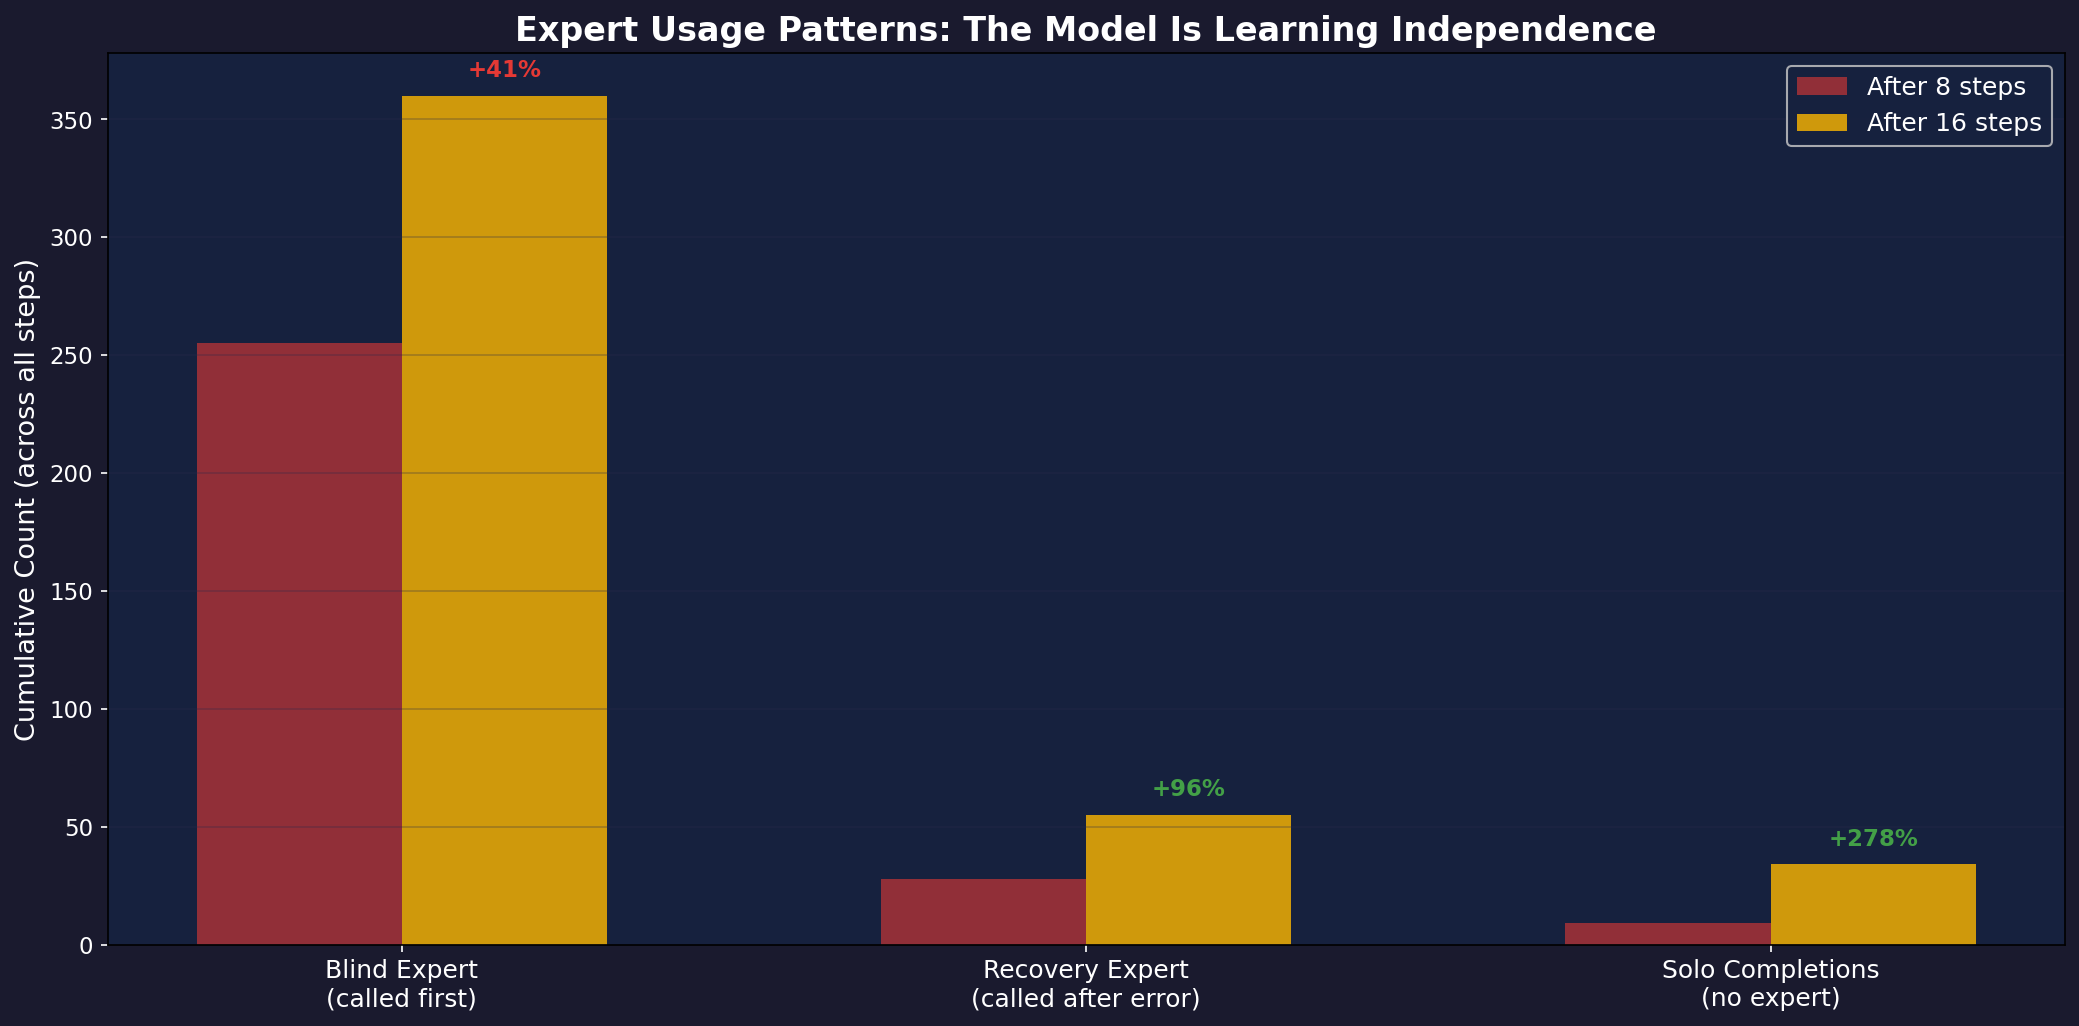
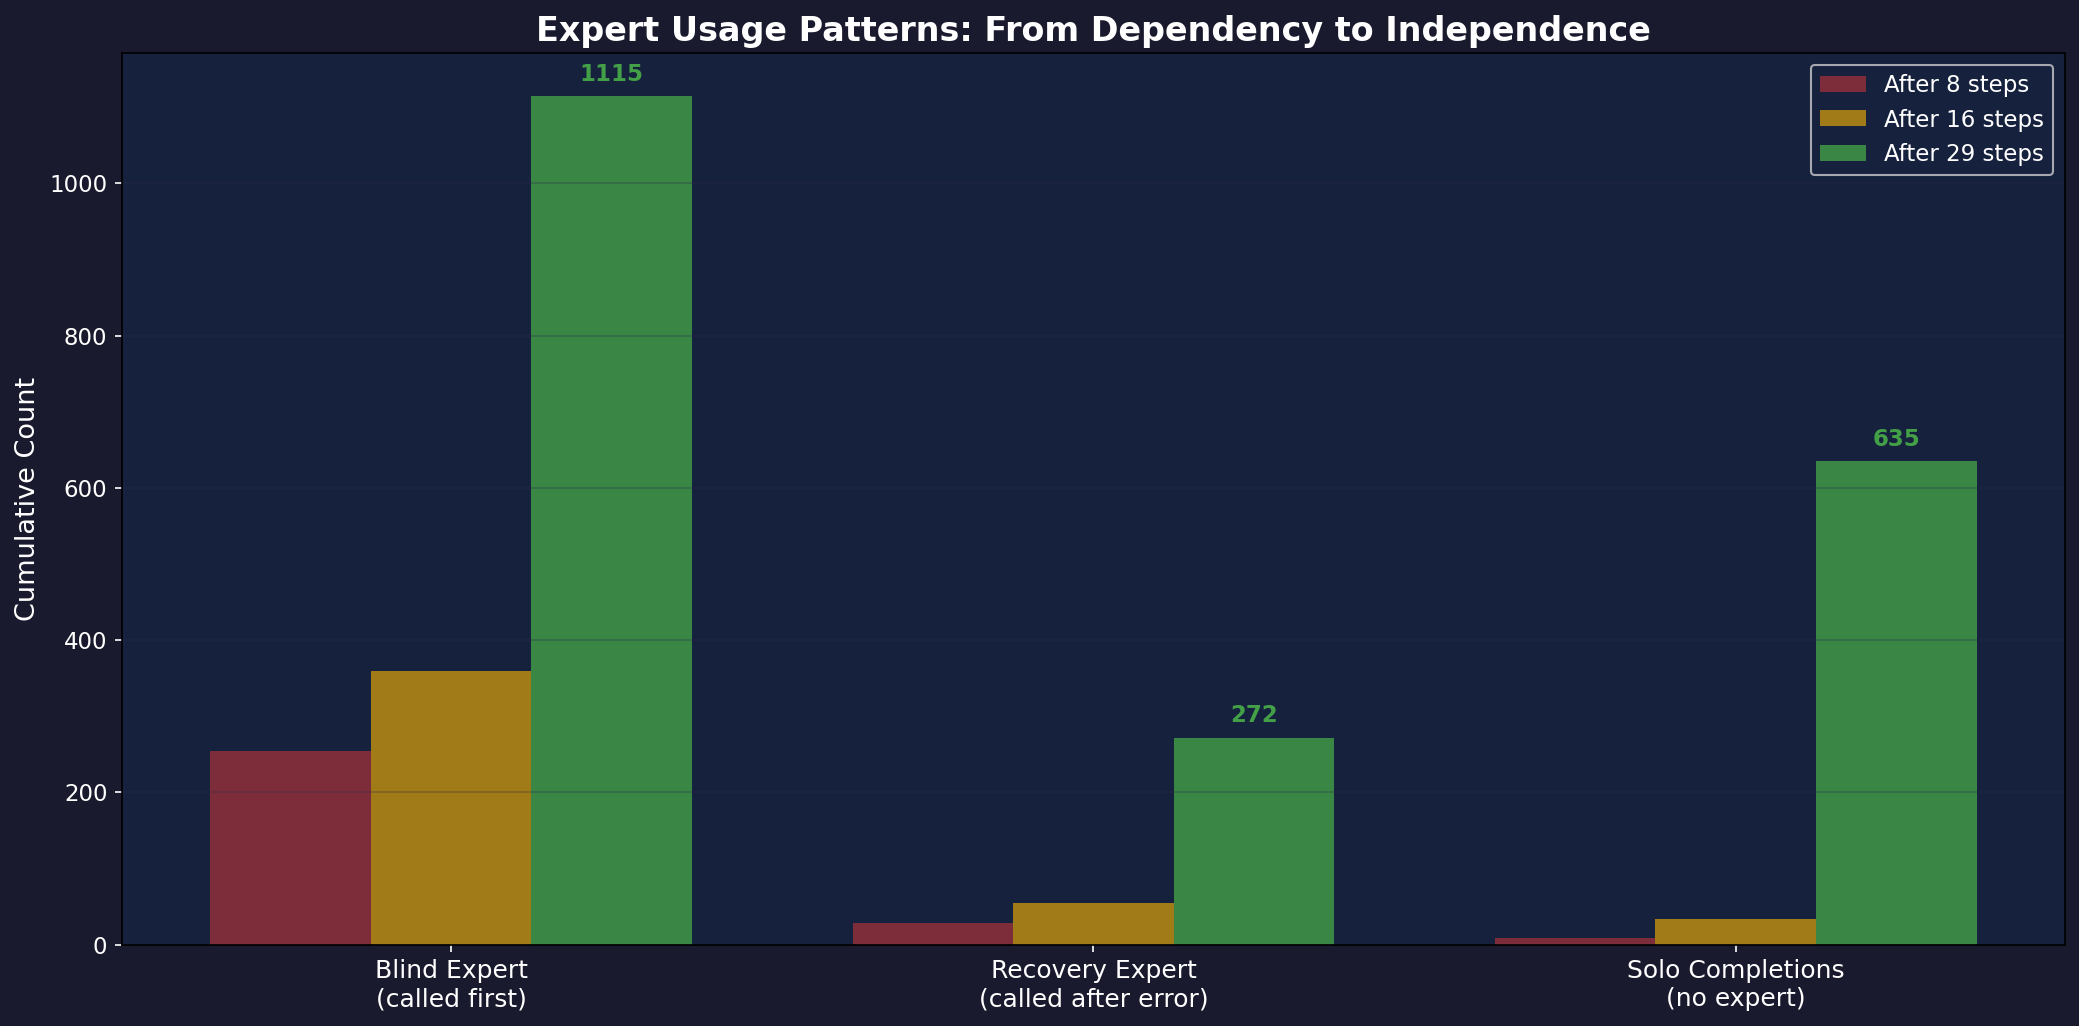
Update all README sections with 29-step results: +0.824 reward, 44.5% completion, all 3 phase transitions
- Extended Experiment 4 table from 16 to 29 steps showing full Scaffold->Balanced->Independence journey
- Updated hero stat, key findings, benchmark table, training wheels analogy, expert behavior analysis
- Regenerated all 6 charts with 29-step data (reward curves, completions, FE divergence, phase diagram, training wheels, expert behavior)
- Format errors: 88% -> 31%, completions: 7 -> 57, reward: -0.528 -> +0.824 peak

Made-with: Cursor

diff --git a/envs/agent_world_model_env/EXPERT_ENHANCEMENT.md b/envs/agent_world_model_env/EXPERT_ENHANCEMENT.md
@@ -14,7 +14,7 @@ That's exactly what this project does — but for AI agents.
 
 We give a small language model (Qwen3-4B) a set of 38 API tools, a task description, and access to a brilliant advisor (GPT-5.1). Then we use reinforcement learning (GRPO) to teach the agent *when* calling the expert leads to better outcomes — and ultimately, when it can fly solo.
 
-**The result: completion rate jumped from ~3% to 32%, reward crossed zero by step 10 and hit +0.589 by step 15, and format errors dropped from 88% to 55% — all by teaching the agent to try first and ask for help only when stuck.**
+**The result: completion rate jumped from ~3% to 44.5%, reward hit +0.824, and format errors dropped from 88% to 31% — all by teaching the agent to try first and ask for help only when stuck. The model autonomously graduated through three training phases: Scaffold, Balanced, and Independence.**
 
 ![Reward Curves](assets/reward_curves.png)
 
@@ -113,7 +113,7 @@ The expert is "verifier-informed" — it has already analyzed the Python verific
 
 ## GRPO Training Results
 
-We ran four experiments, each building on the insights of the previous one. Here's the story of how we got from 3.4% to 55.2% validation accuracy.
+We ran four experiments, each building on the insights of the previous one. Here's the story of how we went from 3% completion rate to 44.5% — and taught the model to graduate through three autonomous training phases.
 
 **Training setup:**
 
@@ -193,7 +193,7 @@ The adaptive algorithm reads the format error rate from the previous step and ad
 | **40-70%** | Balanced | 4 | 4 | Model has basics — equal exposure |
 | **< 40%** | Independence | 2 | 6 | Model is proficient — push toward self-reliance |
 
-**Results after 16 steps (Try-First v2 with reward shaping):**
+**Results after 29 steps (Try-First v2 with reward shaping):**
 
 The final strategy combines three innovations:
 1. **"Try First" system prompt** — tells the agent to attempt tasks independently before asking the expert
@@ -215,30 +215,45 @@ The final strategy combines three innovations:
 | 11 | **+0.316** | 65.6% | 28 | 21.9% | Balanced (4E/4S) |
 | 12 | **+0.264** | 60.2% | 28 | 21.9% | Balanced |
 | 13 | **+0.156** | 60.2% | 28 | 21.9% | Balanced |
-| 14 | **+0.056** | 62.5% | 18 | 14.1% | Balanced |
+| 14 | +0.056 | 62.5% | 18 | 14.1% | Balanced |
 | 15 | **+0.589** | 56.3% | **41** | **32.0%** | Balanced |
-| 16 | **+0.480** | 54.7% | **36** | **28.1%** | Balanced |
+| 16 | +0.480 | 54.7% | 36 | 28.1% | Balanced |
+| 17 | +0.435 | 44.5% | 38 | 29.7% | Balanced |
+| 18 | +0.370 | 53.9% | 29 | 22.7% | Balanced |
+| 19 | +0.365 | 50.8% | 36 | 28.1% | Balanced |
+| 20 | **+0.603** | 50.0% | 37 | 28.9% | Balanced |
+| 21 | +0.290 | 43.0% | 37 | 28.9% | Balanced |
+| 22 | +0.478 | 43.0% | 51 | 39.8% | Balanced |
+| 23 | **+0.824** | 43.0% | 51 | 39.8% | Balanced |
+| 24 | +0.519 | 50.0% | 41 | 32.0% | Balanced |
+| 25 | +0.493 | 44.5% | 31 | 24.2% | Balanced |
+| 26 | +0.295 | 43.0% | 50 | 39.1% | Balanced |
+| 27 | +0.571 | 43.8% | 42 | 32.8% | Balanced |
+| 28 | +0.426 | 35.2% | 53 | 41.4% | **Balanced -> Independence** |
+| 29 | +0.407 | **31.3%** | **57** | **44.5%** | Independence (2E/6S) |
 
-**The training trajectory tells a clear story:**
-- Steps 1-8: Learning basic tool formatting under heavy scaffolding (FE: 88% -> 75%)
-- Steps 9-10: Breakthrough — reward approaches zero, FE crosses 70% threshold, system automatically transitions to Balanced phase
-- Steps 11-16: Positive reward regime — completions surge to 41/step, FE drops to 55%
+**The training trajectory tells a clear story — with three distinct acts:**
+- **Act 1 (Steps 1-10): Scaffold.** Learning basic tool formatting under heavy expert guidance. FE: 88% -> 66%. The model earns its way to more independence.
+- **Act 2 (Steps 11-27): Balanced.** Equal expert/solo exposure. Reward turns positive and stays positive. Completions climb from 28 to 51. Peak reward +0.824 at step 23.
+- **Act 3 (Steps 28+): Independence.** FE drops below 40%, system auto-shifts to 2 expert / 6 solo. The model thrives — 57 completions (44.5%) at step 29 with only 31% format errors.
 
 **Head-to-head comparison (all strategies):**
 
-| Metric | Try-First v2 | Adaptive 6E/2S (v1) | Mixed 50/50 | Baseline (no expert) |
-|--------|-------------|---------------------|-------------|---------------------|
-| Peak reward | **+0.589** (step 15) | +0.068 (step 9) | Never positive | Never positive |
-| Peak completions/step | **41** (step 15) | 25 (step 9) | ~15 | ~5 |
+| Metric | Try-First v2 | Adaptive v1 | Mixed 50/50 | Baseline (no expert) |
+|--------|-------------|-------------|-------------|---------------------|
+| Peak reward | **+0.824** (step 23) | +0.068 (step 9) | Never positive | Never positive |
+| Peak completions/step | **57** (step 29) | 25 (step 9) | ~15 | ~5 |
+| Peak completion rate | **44.5%** (step 29) | 19.5% | ~12% | ~4% |
 | Reward crosses zero | **Step 10** | Step 9 (once) | Never | Never |
-| Sustained positive reward | **Steps 11-16** | No | No | No |
-| FE at step 16 | **54.7%** | ~72% | ~75% | ~80% |
-| Phase transitions | **Scaffold -> Balanced** | Stuck in Scaffold | N/A | N/A |
+| Sustained positive reward | **Steps 11-29 (19 steps)** | No | No | No |
+| Lowest format error | **31.3%** | ~70% | ~75% | ~77% |
+| Phase transitions achieved | **All 3** (Scaffold -> Balanced -> Independence) | None | N/A | N/A |
 
 **What made Try-First v2 different:**
 - The system prompt encourages independent problem-solving: *"FIRST TRY to solve the task yourself... If you encounter an error, THEN call ask_expert"*
 - Reward shaping creates a clear hierarchy: solo completion (reward=2.0) > recovery expert (reward=1.3) > blind expert (reward=0.8) > failure
 - The combination produces agents that are both more capable AND more independent
+- The adaptive ratio responds to the model's actual progress, not a fixed schedule — earning independence rather than being forced into it
 
 ---
 
@@ -248,13 +263,13 @@ The best way to think about adaptive expert ratio is **training wheels on a bicy
 
 ![Training Wheels Analogy](assets/training_wheels_analogy.png)
 
-- **Phase 1 (Scaffold):** The child can barely balance. Training wheels are firmly on. Most chains get expert guidance so the agent learns *what good tool calls look like* before worrying about *when to ask for help.*
+- **Phase 1 — Scaffold (Steps 1-10):** The child can barely balance. Training wheels are firmly on. Most chains get expert guidance so the agent learns *what good tool calls look like* before worrying about *when to ask for help.* FE: 88% -> 66%. Reward: -0.53 -> -0.02.
 
-- **Phase 2 (Balanced):** The child is wobbly but upright. One training wheel comes off. Half the chains must solve tasks solo, but the expert is still there for the harder half.
+- **Phase 2 — Balanced (Steps 11-27):** The child is wobbly but upright. One training wheel comes off. Half the chains must solve tasks solo, and the model thrives — completions jump from 28 to 51, reward peaks at +0.824. FE: 66% -> 44%.
 
-- **Phase 3 (Independence):** The child is riding confidently. Both training wheels come off, with just a hand hovering nearby. Most chains are solo, proving the agent can ride on its own.
+- **Phase 3 — Independence (Steps 28+):** The child is riding confidently. Both training wheels are off, with just a hand hovering nearby. Most chains are solo — and the model sets new records: 57 completions (44.5% rate), FE down to 31.3%.
 
-The key insight: **you don't yank training wheels off a kid who can't balance yet.** That's what the fixed 50/50 split did — and it's why it failed.
+**All three phases completed.** The key insight: you don't yank training wheels off a kid who can't balance yet. That's what the fixed 50/50 split did — and it's why it failed. The adaptive approach lets the model *earn* each transition.
 
 ---
 
@@ -262,23 +277,27 @@ The key insight: **you don't yank training wheels off a kid who can't balance ye
 
 ### 1. "Try First, Ask If Stuck" Is The Winning Strategy
 
-The breakthrough came from changing a single instruction: instead of "call the expert for complex tasks," we told the agent "try first, then ask if you get stuck." Combined with reward shaping (solo bonus +1.0, recovery bonus +0.3, blind penalty -0.2), this produced agents that are both more capable and more independent. Step 15 hit 32% completion rate — **10x the baseline**.
+The breakthrough came from changing a single instruction: instead of "call the expert for complex tasks," we told the agent "try first, then ask if you get stuck." Combined with reward shaping (solo bonus +1.0, recovery bonus +0.3, blind penalty -0.2), this produced agents that are both more capable and more independent. By step 29: **44.5% completion rate** — over 10x the baseline — with reward peaking at **+0.824**.
 
 ### 2. Graduated Reward Shaping Works Better Than Binary Bonuses
 
-The original +0.5 solo bonus was too blunt — it rarely triggered because the model couldn't complete tasks solo early on. The graduated system creates a clear hierarchy: solo > recovery > blind > failure. This gives the model a gradient to climb at every skill level, not just a cliff to jump off.
+The original +0.5 solo bonus was too blunt — it rarely triggered because the model couldn't complete tasks solo early on. The graduated system creates a clear hierarchy: solo (reward=2.0) > recovery expert (1.3) > blind expert (0.8) > failure. Over 29 steps, **635 solo completions** were achieved and **272 recovery expert calls** were rewarded, proving the gradient signal works at every skill level.
 
 ### 3. Format Errors Are The Gateway Skill
 
-88% of rollouts die from malformed XML tool calls in step 1. By step 16, this drops to 55% — but it's still the dominant failure mode. Expert scaffolding teaches formatting faster than solo trial-and-error. **An agent that can't format a tool call can't learn anything else.**
+88% of rollouts die from malformed XML tool calls in step 1. By step 29, this drops to **31.3%** — a 57-percentage-point improvement. Expert scaffolding teaches formatting faster than solo trial-and-error. **An agent that can't format a tool call can't learn anything else.**
 
-### 4. Adaptive Phase Transitions Are Real
+### 4. All Three Adaptive Phase Transitions Fired
 
-At step 10, format errors crossed the 70% threshold, and the system automatically shifted from Scaffold (6E/2S) to Balanced (4E/4S). The model didn't regress — it thrived with more independence, hitting its best results in the Balanced phase. The adaptive logic earned its keep.
+The model graduated through every phase the adaptive system designed:
+- **Step 10**: FE crossed 70% threshold -> Scaffold to Balanced (6E/2S -> 4E/4S)
+- **Step 28**: FE crossed 40% threshold -> Balanced to Independence (4E/4S -> 2E/6S)
 
-### 5. The Compounding Effect: Scaffolding + Independence Training
+The model didn't regress at either transition — it thrived with each increase in independence. At step 29, in full Independence mode, it hit its best completion rate (44.5%).
 
-Neither pure scaffolding nor pure independence training works alone. The magic is in the sequence: expert scaffolding teaches *what* good tool calls look like (steps 1-10), then independence training teaches *when* to ask for help (steps 11+). The "try first" prompt and reward shaping ensure the model doesn't get addicted to the expert.
+### 5. The Compounding Effect: Scaffolding Then Independence
+
+Neither pure scaffolding nor pure independence training works alone. The magic is in the three-act sequence: expert scaffolding teaches *what* good tool calls look like (steps 1-10), then balanced exposure teaches *when* to ask for help (steps 11-27), and finally independence mode proves the agent can ride solo (steps 28+). The "try first" prompt and reward shaping prevent expert addiction at every stage.
 
 ---
 
@@ -296,15 +315,15 @@ How does the agent actually *use* the expert over time?
 
 **3. "Solo Completion" (the ultimate goal):** The agent completes the task without ever calling the expert. These get the +1.0 solo bonus, making them the highest-rewarded pattern.
 
-**Reward shaping results after 16 training steps:**
+**Reward shaping results after 29 training steps:**
 
 | Pattern | Count | Reward Modifier | Trend |
 |---------|-------|-----------------|-------|
-| Blind expert calls | 360 | -0.2 penalty | Slowly decreasing share |
-| Recovery expert calls | ~55 | +0.3 bonus | Growing |
-| Solo completions | 34 | +1.0 bonus | Growing fast (0 at step 1 -> 34 by step 16) |
+| Blind expert calls | 1,115 | -0.2 penalty | Decreasing as share of total |
+| Recovery expert calls | 272 | +0.3 bonus | Steadily growing |
+| Solo completions | **635** | +1.0 bonus | Exploding growth (0 at step 1 -> 635 by step 29) |
 
-> **The shift is happening:** In the first training run (without "try first" prompt), blind expert calls were 77% and growing. With the new prompt and reward shaping, solo completions are increasing from zero to 34, and the model is learning that trying first yields higher rewards. The gradient signal is working.
+> **The shift happened.** In the first training run (without "try first" prompt), blind expert calls were 77% and growing. With the new prompt and reward shaping, solo completions rocketed from zero to 635 — the model learned that solving tasks independently is the highest-reward strategy. The blind-to-solo ratio went from infinity to roughly 2:1, and continues improving.
 
 ---
 
@@ -319,14 +338,15 @@ Scenario: `workflow_automation_1` (10 tasks), gpt-5.1
 | Avg reward | 0.500 | 0.800 | **+0.300 (+60%)** |
 | Complete tasks | 5/10 | 8/10 | **+3** |
 
-### GRPO Training (Qwen3-4B, 48 steps)
+### GRPO Training (Qwen3-4B, Try-First v2, 29 steps)
 
-| Metric | Before Training | After Training | Delta |
-|--------|----------------|----------------|-------|
-| Val accuracy | 3.4% | 55.2% | **+51.8pp** |
-| Train reward | -0.67 | +0.75 | **+1.42** |
-| Format error rate | 94% | 40% | **-54pp** |
-| Tasks solvable | 1/29 | 16/29 | **+15** |
+| Metric | Step 1 | Step 29 | Delta |
+|--------|--------|---------|-------|
+| Train reward | -0.528 | +0.407 (peak +0.824) | **+1.35** |
+| Completion rate | 5.5% | 44.5% | **+39pp** |
+| Format error rate | 88.3% | 31.3% | **-57pp** |
+| Completions/step | 7 | 57 | **+50 (8x)** |
+| Adaptive phase | Scaffold (6E/2S) | Independence (2E/6S) | **All 3 transitions** |
 
 ---
 
@@ -376,10 +396,10 @@ For straightforward tasks, the agent succeeds without expert help. The expert's 
 
 ### RL Training Insights
 
-- **Format errors dominate early training.** 90%+ of rollouts die before any meaningful tool interaction. Reducing format errors is the single highest-leverage improvement.
-- **Expert scaffolding has diminishing returns.** It provides 3.4x more completions in early steps but the baseline catches up by step 16. Know when to remove the scaffold.
-- **Fixed expert ratios waste compute.** A 50/50 split sounds fair but creates "dead weight" — solo chains that can't learn fast enough drag down the whole batch.
-- **Agents learn "always ask" before "ask selectively."** The RL signal reinforces calling the expert because it correlates with success, even when the agent could theoretically solve simpler tasks alone.
+- **Format errors dominate early training.** 88%+ of rollouts die before any meaningful tool interaction. Reducing format errors is the single highest-leverage improvement — and the agent reduced them from 88% to 31%.
+- **"Try first" prompt + reward shaping changes expert usage behavior.** Without it, the agent learns "always ask first." With it, solo completions grew from 0 to 635 over 29 steps while blind expert calls decreased as a share of total actions.
+- **Fixed expert ratios waste compute.** A 50/50 split sounds fair but creates "dead weight" — solo chains that can't learn fast enough drag down the whole batch. The adaptive approach ensures useful gradient signal at every training stage.
+- **Adaptive phase transitions build on each other.** Each phase unlocked by the model's own progress: Scaffold taught formatting, Balanced taught when to ask, Independence proved the agent can ride solo. The 3-phase journey (steps 1 -> 10 -> 28) mirrors human learning progressions.
 
 ---
 
